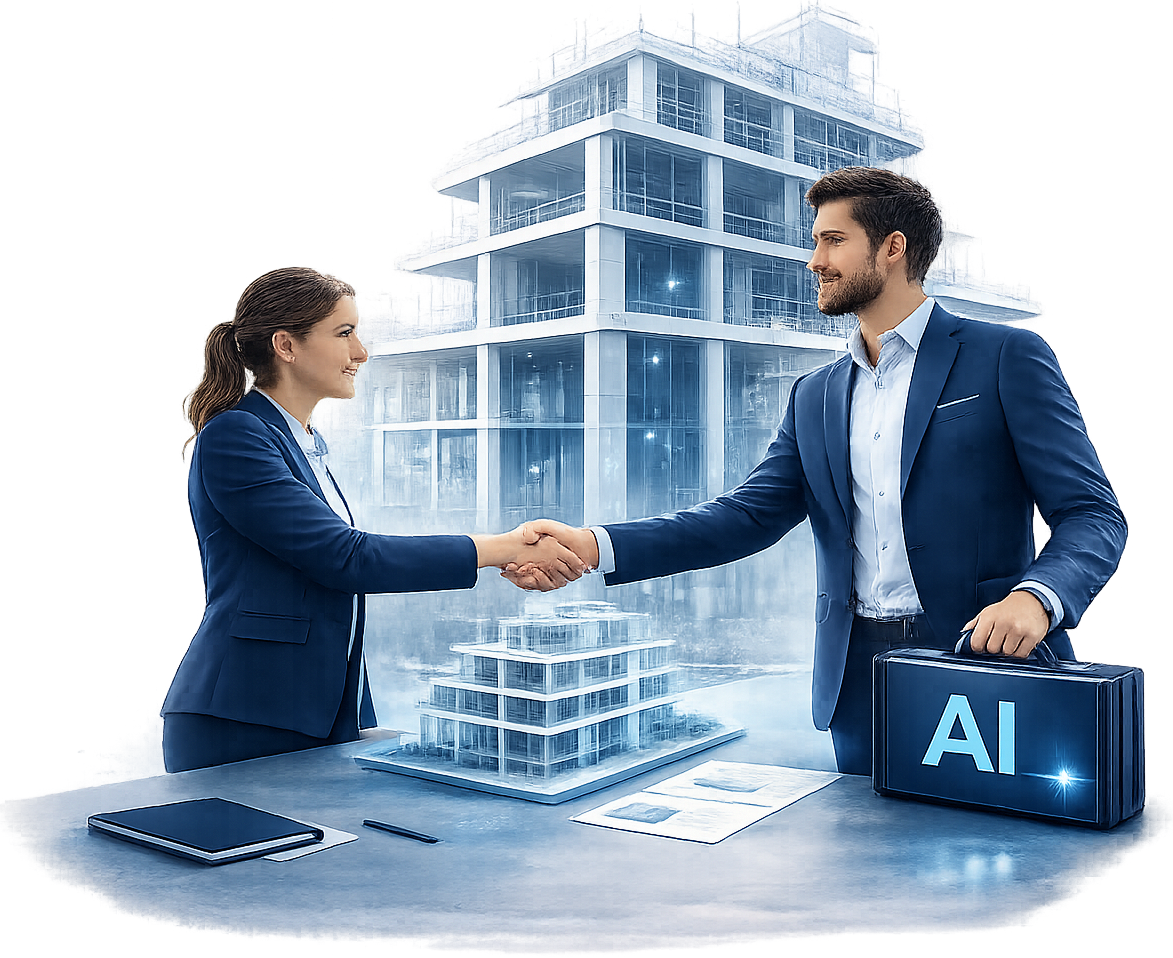
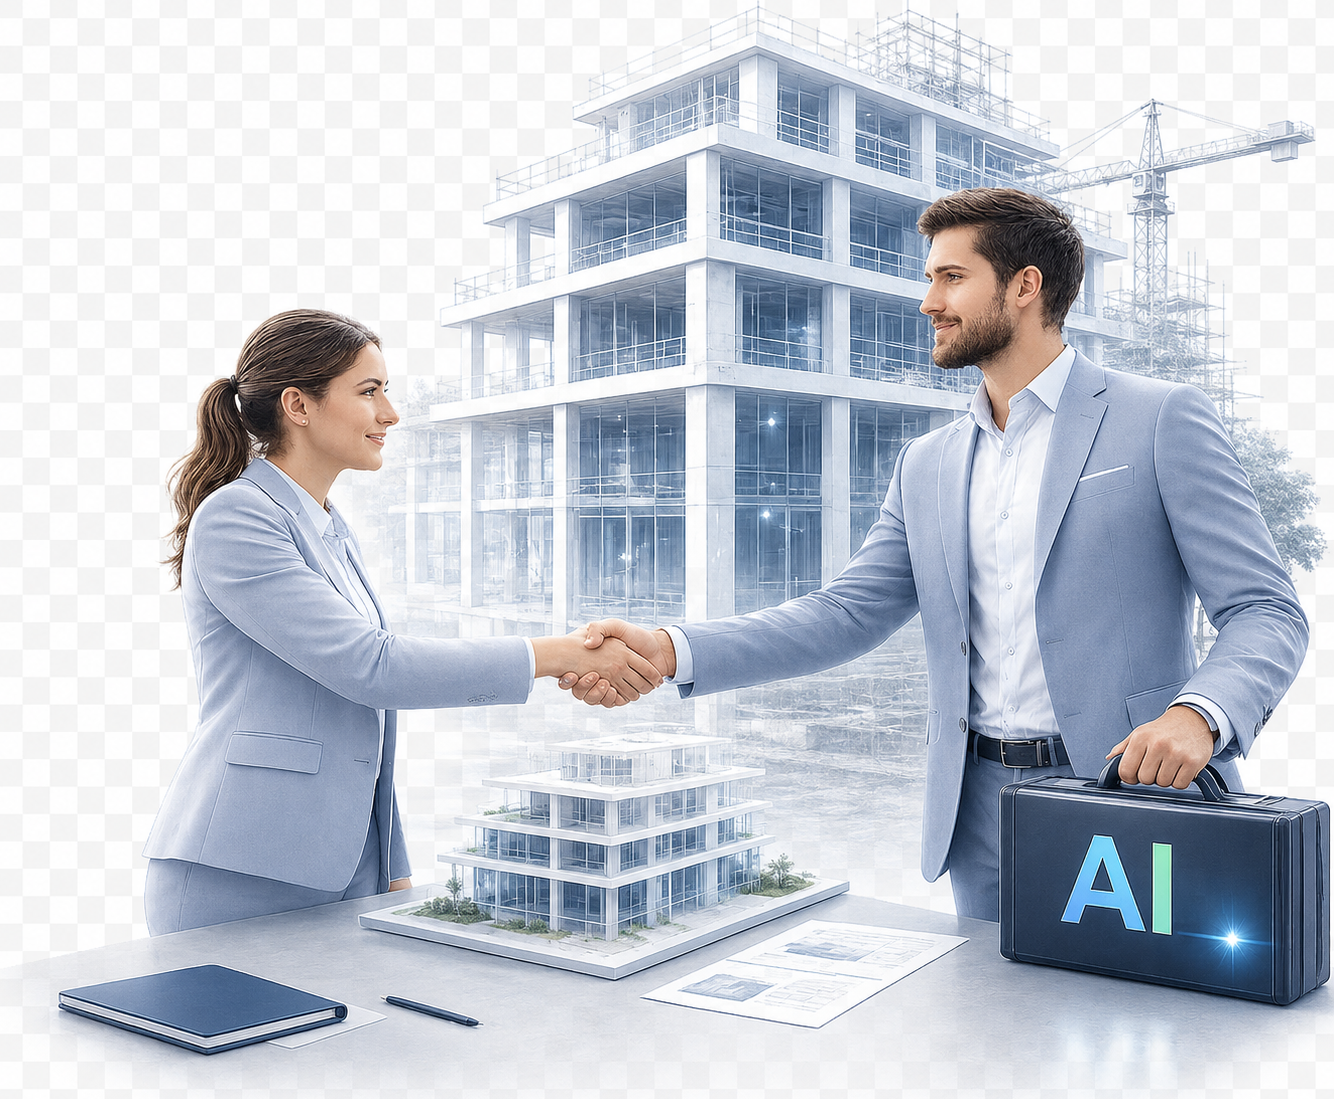
changes

diff --git a/css/components.css b/css/components.css
@@ -934,7 +934,7 @@ showcase--no-description
 
     }
 
-    .showcase--details .showcase-description{
+    .showcase--details .showcase-item--active .showcase-description{
 
         display:block;
 
@@ -947,6 +947,12 @@ showcase--no-description
         transform:none;
 
         text-align:left;
+
+    }
+
+    .showcase--details .showcase-item:not(.showcase-item--active) .showcase-description{
+
+        display:none;
 
     }
 
